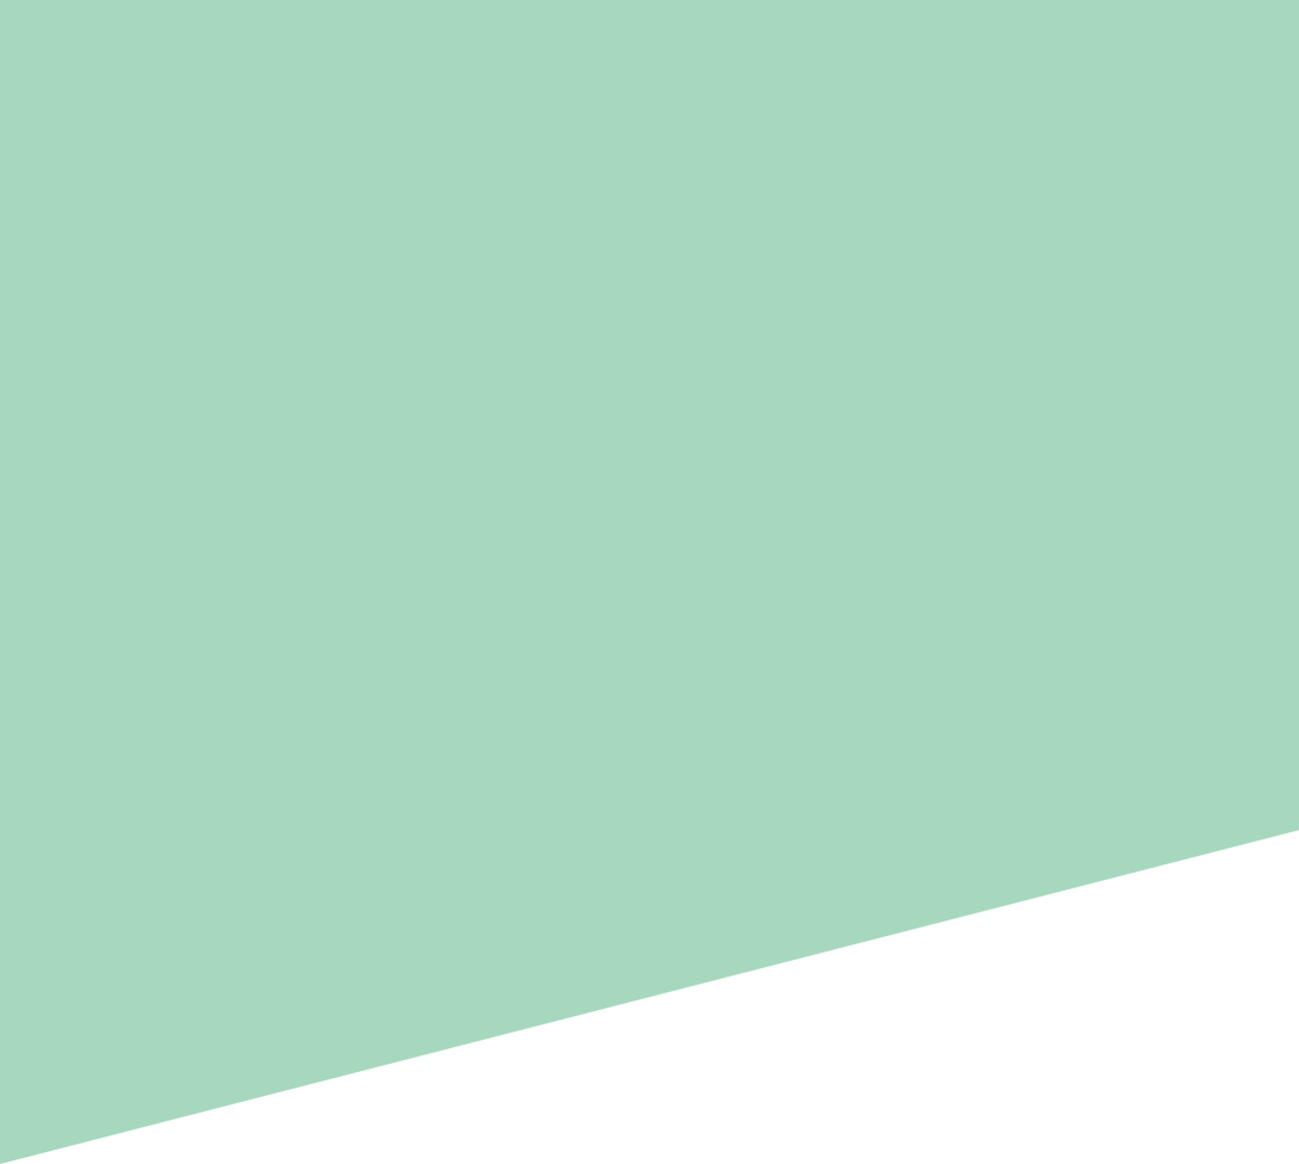
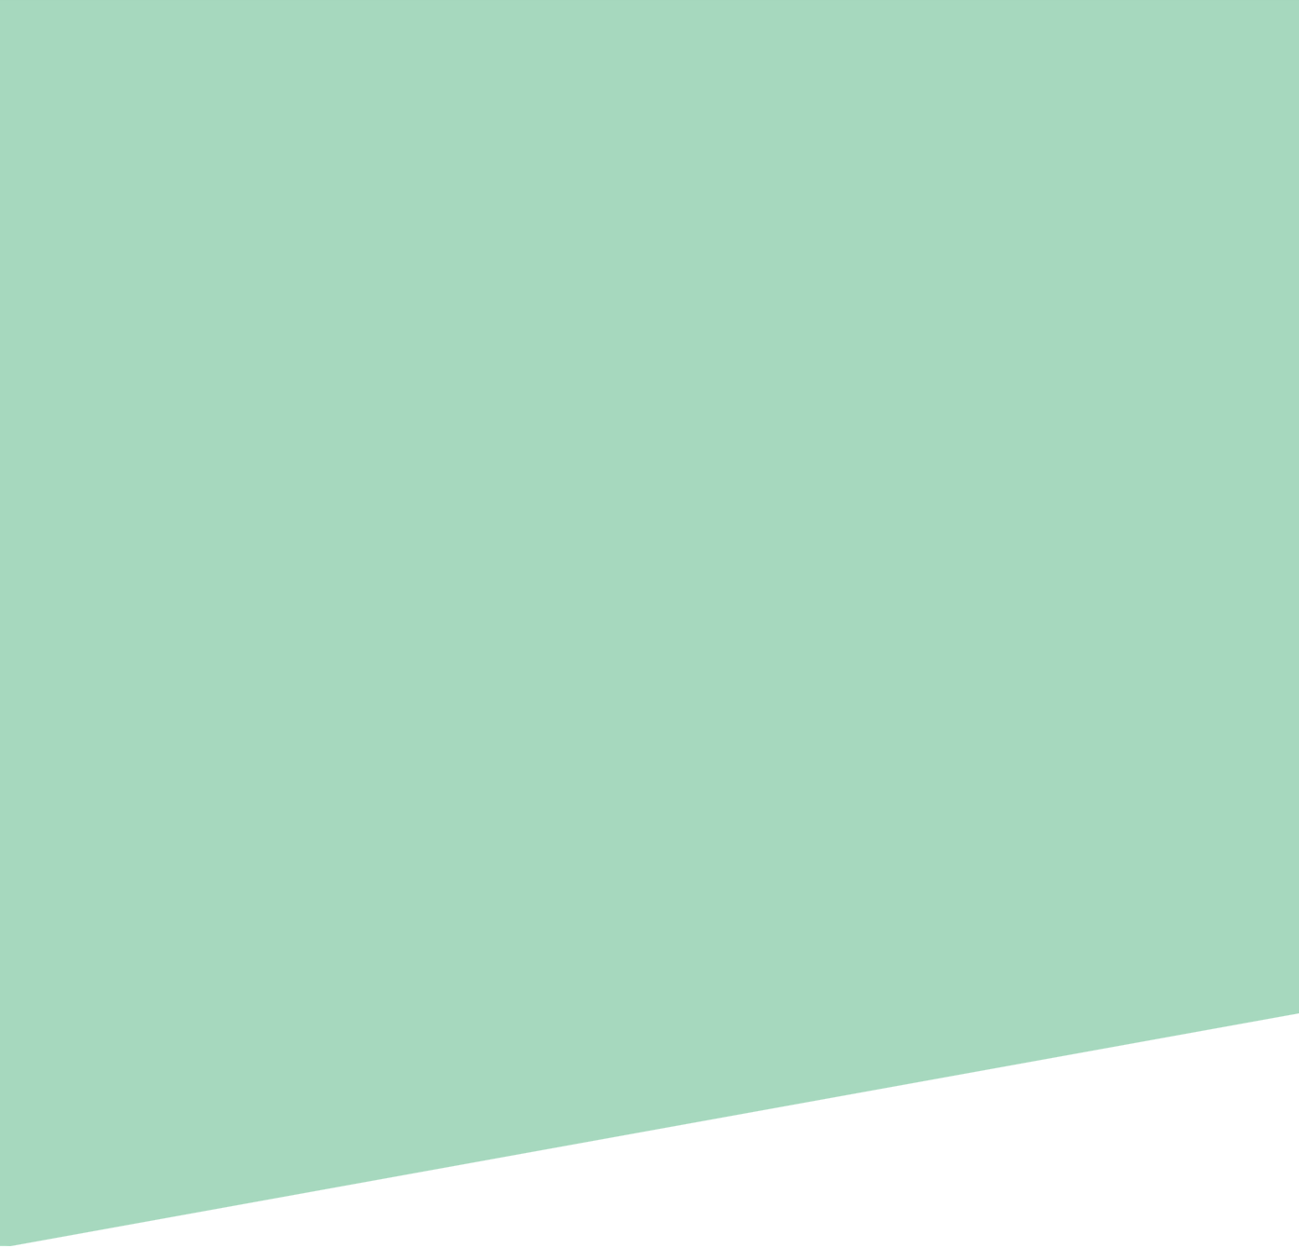
20230530_2222

Changed region(s): [[0.0, 0.7113, 1.0, 1.0]]

diff --git a/easy_sim.html b/easy_sim.html
@@ -1,0 +1,103 @@
+<!DOCTYPE html>
+<html lang="en">
+  <head>
+    <meta charset="UTF-8" />
+    <meta http-equiv="X-UA-Compatible" content="IE=edge" />
+    <meta name="viewport" content="width=device-width, initial-scale=1.0" />
+    <title>かんたんシミュレーション</title>
+    <link rel="stylesheet" href="css/reset.css" />
+    <link rel="stylesheet" href="css/style_easy.css" />
+  </head>
+  <body>
+    <div class="main_wrap">
+      <div class="main">
+        <div class="main_message">かんたん<br />シミュレーション</div>
+        <div class="main_message_2">ORAL HEALTH SIMULATION</div>
+        <div class="main_message_3">＼まずはシミュレーションしてみましょう／</div>
+        <img class="main_pic" src="img/tooth.png" alt="歯君" />
+      </div>
+    </div>
+
+		<section class="sim-content">
+			<div class="sim-h2"><h2>お問い合わせ</h2></div>
+
+			<div class="sim_form">
+				<input class="ef nickname" type="text" placeholder="">
+				<label>ニックネーム</label>
+				<span class="focus_line"></span>
+			</div>
+			<div class="sim_form">
+				<input class="ef nickname" type="text" placeholder="">
+				<label>ニックネーム</label>
+				<span class="focus_line"></span>
+			</div>
+			<div class="sim_form">
+				<input class="ef nickname" type="text" placeholder="">
+				<label>ニックネーム</label>
+				<span class="focus_line"></span>
+			</div>
+			<div class="sim_form">
+				<input class="ef nickname" type="text" placeholder="">
+				<label>ニックネーム</label>
+				<span class="focus_line"></span>
+			</div>
+
+
+
+			<div class="sim-table">
+			<table class="sim-form-table">
+				<tr class="sim-form-tr">
+					<td class="sim-form-td">名前</td>
+					<td class="sim-form-td"><input type="text" placeholder="山田 太郎"></td>
+				</tr>
+				<tr class="sim-form-tr">
+					<td class="sim-form-td">カナ</td>
+					<td class="sim-form-td"><input type="text" placeholder="ヤマダ ダロウ"></td>
+				</tr>
+				<tr class="sim-form-tr">
+					<td class="sim-form-td">メールアドレス</td>
+					<td class="sim-form-td"><input type="email" placeholder="####@#####.com"></td>
+				</tr>
+				<tr class="sim-form-tr">
+					<td class="sim-form-td">チーズアカデミーを<br>知ったきっかけ</td>
+					<td class="sim-form-td">
+						<select name="inspire">
+							<option value="google選択">google選択</option>
+							<option value="SNS">SNS</option>
+							<option value="紹介">紹介</option>
+							<option value="たまたま通りかかった">たまたま通りかかった</option>
+							<option value="その他">その他</option>
+						</select>
+					</td>
+				</tr>
+				<tr class="sim-form-tr">
+					<td class="sim-form-td">志望動機</td>
+					<td class="sim-form-td">
+						<ul>
+							<li id="motiva"><input type="checkbox" name="motiva" value="起業をしたい">起業をしたい</li>
+							<li id="motiva"><input type="checkbox" name="motiva" value="チーズ系企業に就職・転職したい">チーズ系企業に就職・転職したい</li>
+							<li id="motiva"><input type="checkbox" name="motiva" value="チーズとかかわる仕事をしており、仕事に生かしたい">チーズとかかわる仕事をしており、仕事に生かしたい</li>
+							<li id="motiva"><input type="checkbox" name="motiva" value="チーズの教養を身につけたい">チーズの教養を身につけたい</li>
+						</ul>
+					</td>
+				</tr>
+			</table>
+			</div>
+			<div class="submit_btn">
+				<div class="btn btn_anime bg_anime" id="btn-hover">
+					<a href="easy_sim.html"><span>シミュレーションスタート</span></a>
+				</div>
+			</div>
+		</section>
+
+
+
+
+		<footer>
+			<div class="footer">©2023 - ORAL HEALTH SIMULATION site</div>
+		</footer>
+
+    <script src="https://ajax.googleapis.com/ajax/libs/jquery/3.5.1/jquery.min.js"></script>
+    <script src="js/main.js"></script>
+	</body>
+</html>

diff --git a/css/style_easy.css b/css/style_easy.css
@@ -7,17 +7,6 @@ body{
     margin: auto;
 }
 
-.header {
-    position: absolute;
-    top: 0; /* 上部から配置の基準位置を決める */
-    left: 0; /* 左から配置の基準位置を決める */
-    width: 100%; /* ヘッダーの横幅を指定する */
-    height: 35px; /* ヘッダーの高さを指定する */
-    display: flex;
-    align-items: center;
-    justify-content: flex-end;
-    padding-top: 5px;
-}
 
 .navi{
     display: flex;
@@ -41,6 +30,18 @@ body{
     color: white;
     padding: 5px 20px 5px 20px;
 }
+
+
+footer{
+    margin-top: 10px;
+    height: 30px;
+    background-color: #A6D8BE;
+    color: white;
+    display: flex;
+    justify-content: center;
+    align-items: center;
+}
+
 
 @media only screen and (min-width: 1000px) {
     body{
@@ -81,7 +82,6 @@ body{
 
 @media only screen and (max-width: 480px) {
     body{
-    background-image: url(../img/background_sp.png);
     background-position: top;
     background-repeat: no-repeat;
     background-size: 100vw;
@@ -90,17 +90,19 @@ body{
     .main_wrap{
         text-align: center;
         padding-bottom: 100px;
+        height: 250px;
+        background-color: #A6D8BE;
     }
 
     .main{
-        margin:10vw 10vw 0 10vw;
+        margin:0 20px;
     }
 
     .main_message{
         padding-top: 20px;
         font-family: 'Cormorant', serif;
-        color: white;
         font-weight: bold;
+        color: white;
         font-size: 40px;
         padding-bottom: 20px;
     }
@@ -109,8 +111,6 @@ body{
         font-family: 'Cormorant', serif;
         color: white;
         font-size: 15px;
-        line-height: 40px;
-        padding-bottom: 20px;
     }
     .main_message_3{
         text-align: center;
@@ -121,9 +121,10 @@ body{
     }
 
     .main_pic{
-        display: none;
+        height: 130px;
     }
 
+    
 
     /* ボタン */
     .btn{
@@ -196,13 +197,76 @@ body{
         }
     }
 
-    .soon{
-        font-size: 5px;
-        padding: 5px;
-        color: #FFD966;
+    .sim_form {
+        position: relative;
+        width: 80%;
+        margin: 40px 3%;
+        display: flex;
+        justify-content: center;
     }
-
-
+    .sim_form input[type='text'] {
+        font: 15px/24px sans-serif;
+        box-sizing: border-box;
+        width: 100%;
+        letter-spacing: 1px;
+        padding-left: 4em;
+    }
+    .sim_form input[type='text']:focus {
+        outline: none;
+    }
+    .ef {
+        padding: 4px 0;
+        border: 0;
+        border-bottom: 1px solid #1b2538;
+        background-color: transparent;
+    }
+    .ef ~ .focus_line {
+        position: absolute;
+        z-index: 99;
+        bottom: 0;
+        left: 0;
+        width: 100%;
+        height: 2px;
+    }
+    .ef ~ .focus_line:before,
+    .ef ~ .focus_line:after {
+        position: absolute;
+        bottom: 0;
+        left: 0;
+        width: 0;
+        height: 100%;
+        content: '';
+        transition: 0.4s;
+        background-color: #FFC50D;
+    }
+    .ef ~ .focus_line:after {
+        right: 0;
+        left: auto;
+    }
+    .ef:focus ~ .focus_line:before,
+    .ef:focus ~ .focus_line:after,
+    .sim_form.ef ~ .focus_line:before,
+    .sim_form.ef ~ .focus_line:after {
+        width: 50%;
+        transition: 0.4s;
+    }
+    .ef ~ label {
+        position: absolute;
+        z-index: -1;
+        top: 4px;
+        left: 0;
+        width: 100%;
+        transition: 0.3s;
+        letter-spacing: 0.5px;
+        color: #aaaaaa;
+    }
+    .ef:focus ~ label,
+    .sim_form.ef ~ label {
+        font-size: 12px;
+        top: -16px;
+        transition: 0.3s;
+        color: #FFC50D;
+    }
 
 
 }

diff --git a/index.html b/index.html
@@ -7,6 +7,9 @@
     <title>お口の健康シミュレーション</title>
     <link rel="stylesheet" href="css/reset.css" />
     <link rel="stylesheet" href="css/style.css" />
+		<link rel="preconnect" href="https://fonts.googleapis.com">
+		<link rel="preconnect" href="https://fonts.gstatic.com" crossorigin>
+		<link href="https://fonts.googleapis.com/css2?family=Cormorant:wght@500&family=M+PLUS+Rounded+1c:wght@700&display=swap" rel="stylesheet">
 
 </head>
 <body>
@@ -23,19 +26,30 @@
 					<img class="main_pic" src="img/tooth.png" alt="歯君">
 				</div>
 				<div class="main_message_2">ORAL HEALTH SIMULATION</div>
+				<div class="main_message_3">まずはシミュレーションしてみましょう</div>
 			</div>
 
 			<div class="easy_sim_btn">
 				<div class="btn btn_anime bg_anime" id="btn-hover">
-					<a href="JQuery_syntax.html"><span>かんたんシミュレーション</span></a>
+					<a href="easy_sim.html"><span>かんたんシミュレーション</span></a>
 				</div>
 			</div>
 			<div class="detaile_sim_btn">
 				<div class="btn btn_anime bg_anime" id="btn-hover">
-					<a href="JQuery_syntax.html"><span>くわしくシミュレーション</span></a>
+					<a href="detail_sim.html"><span>くわしくシミュレーション</span><span class="soon">comming soon</span></a>
 				</div>
 			</div>
 		</div>
+		
+		<section>
+			<div class="section_title">ライフプランシミュレーションとは</div>
+			<div class="section_detail">あなたの10年、20年後……。
+どんなライフイベントがあるのか、お金はどれくらい必要なのかを具体的に考えたことはありますか？
+このライフプランシミュレーションでは、家族構成や収入状況・将来の計画などを入力することで、あなたの未来の収支状況をグラフで確認することができます。
+簡単に入力できますので、早速チャレンジしてみましょう！
+			</div>
+
+		</section>
 
     <script src="https://ajax.googleapis.com/ajax/libs/jquery/3.5.1/jquery.min.js"></script>
     <script src="js/main.js"></script>

diff --git a/js/main.js b/js/main.js
@@ -1,0 +1,17 @@
+
+
+function selectBox(start, end){
+    let str = "";
+    for(let i=start; i<end; i++){
+        str += `<option>${i}</option>`;
+    }
+return str;
+}
+
+const year = selectBox(1970,3000);
+const month = selectBox(1,13);
+const date = selectBox(1,32);
+//3.変数「html」に入ってる文字列を pタグid="view"に表示
+$("#view1").html(year);
+$("#view2").html(month);
+$("#view3").html(date);

diff --git a/detail_sim.html b/detail_sim.html
@@ -1,0 +1,12 @@
+<!DOCTYPE html>
+<html lang="en">
+<head>
+    <meta charset="UTF-8">
+    <meta http-equiv="X-UA-Compatible" content="IE=edge">
+    <meta name="viewport" content="width=device-width, initial-scale=1.0">
+    <title>くわしくシミュレーション</title>
+</head>
+<body>
+    
+</body>
+</html>
